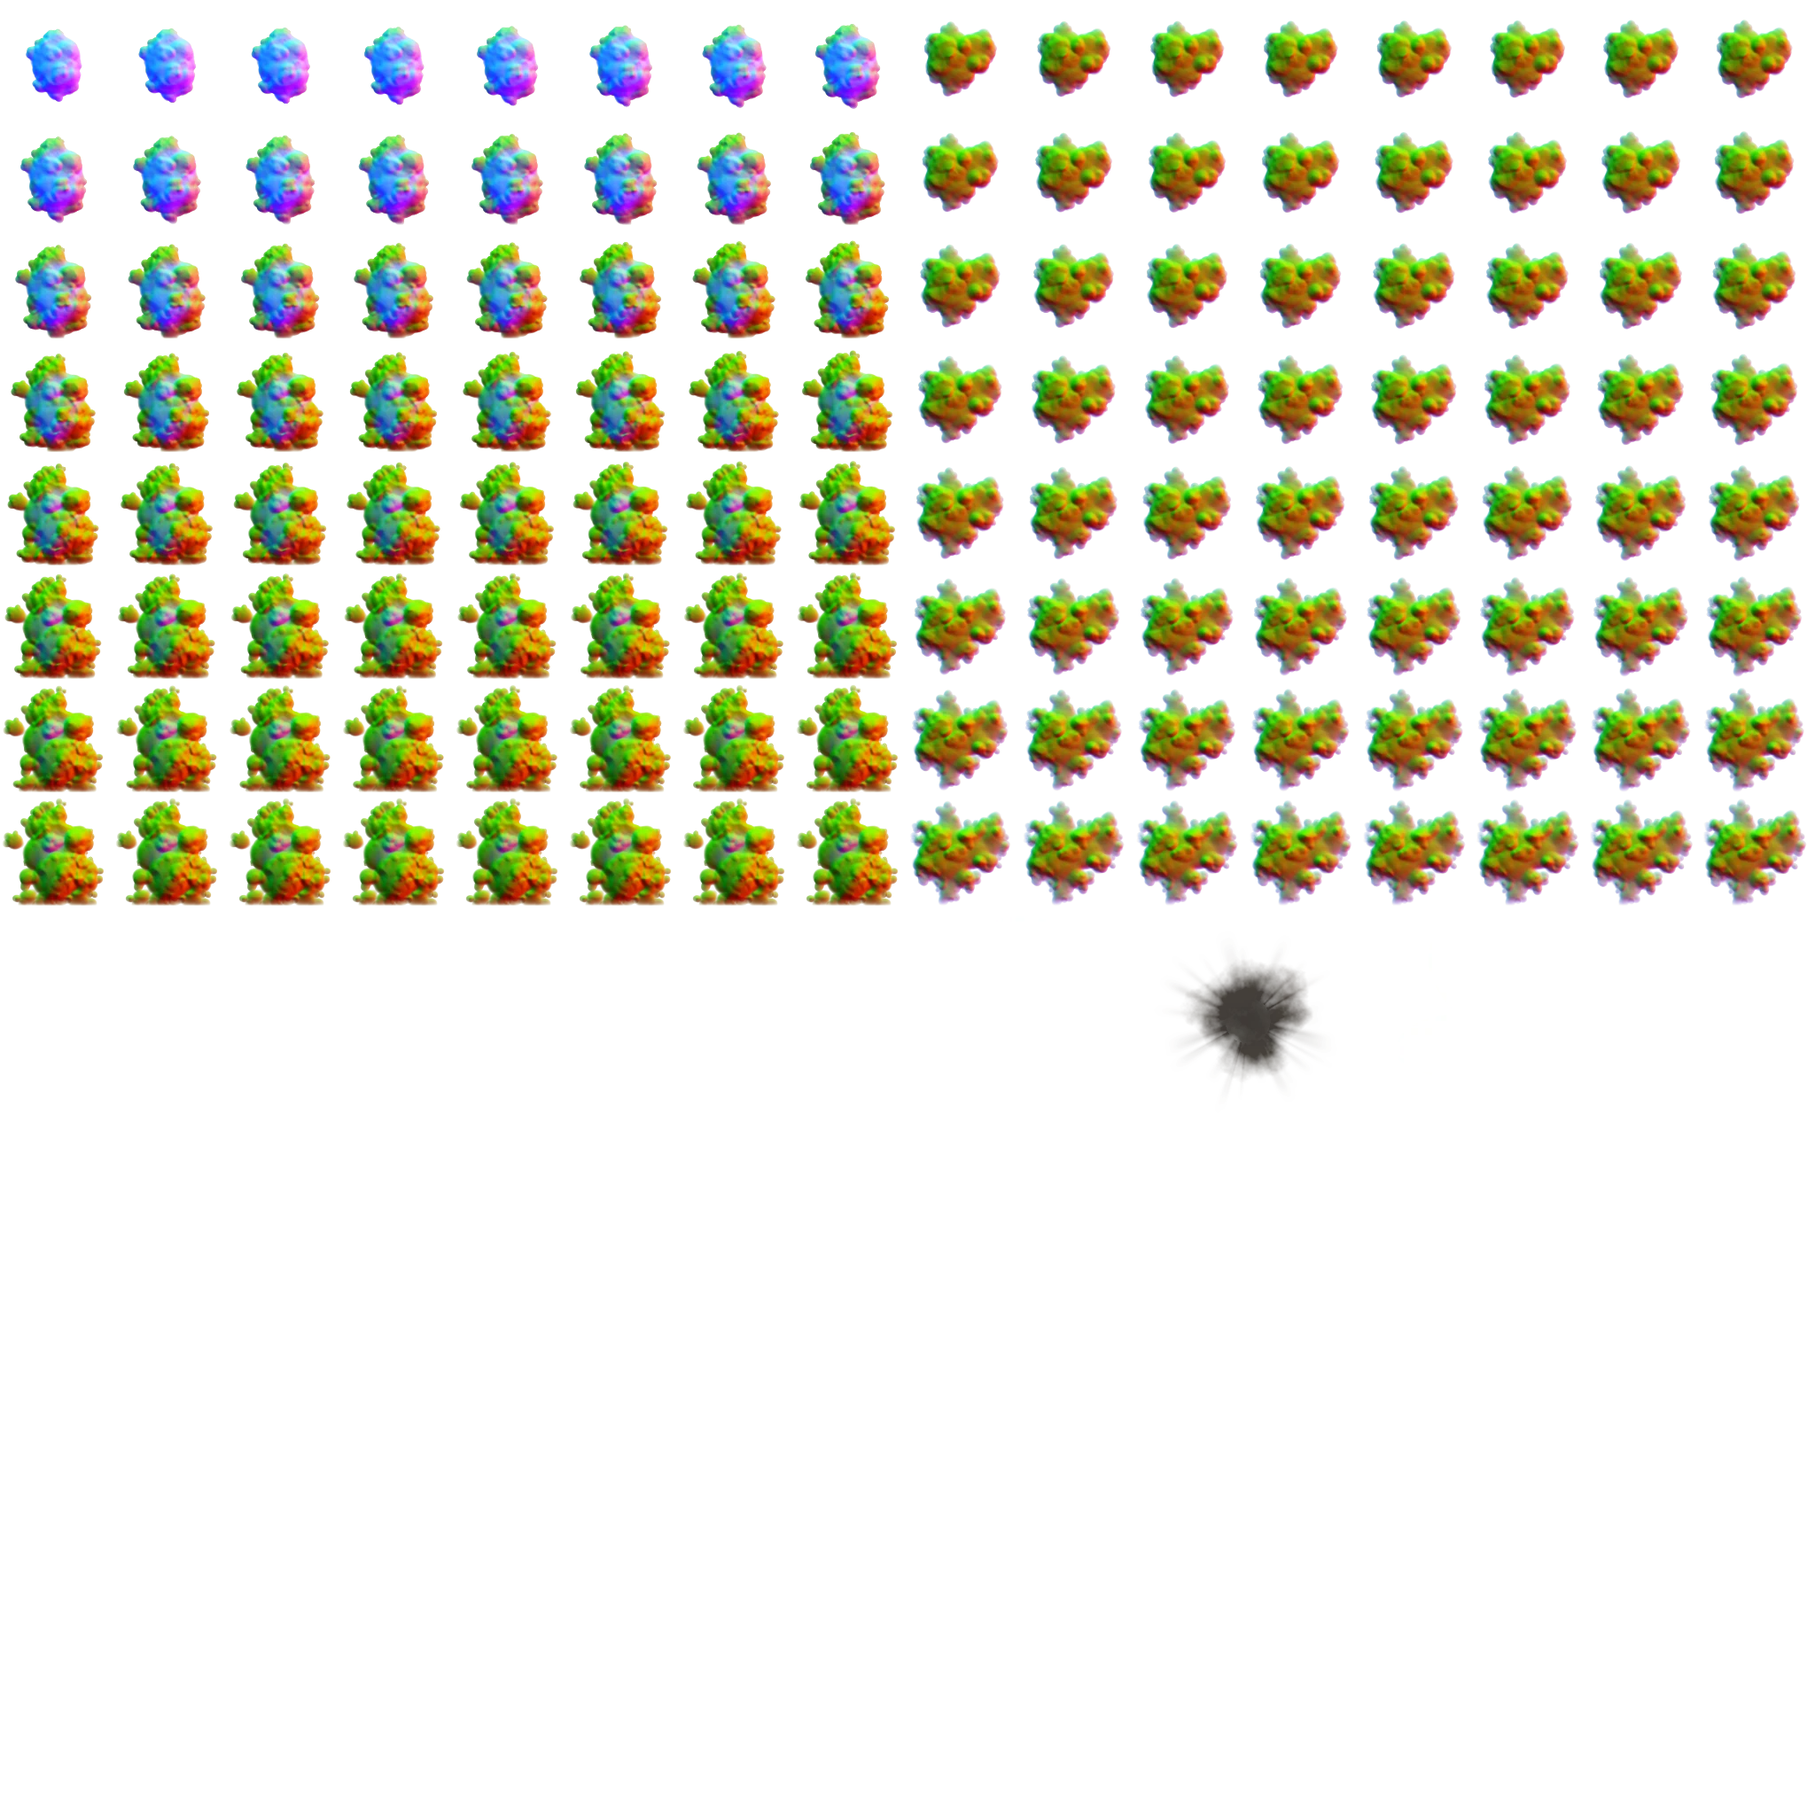
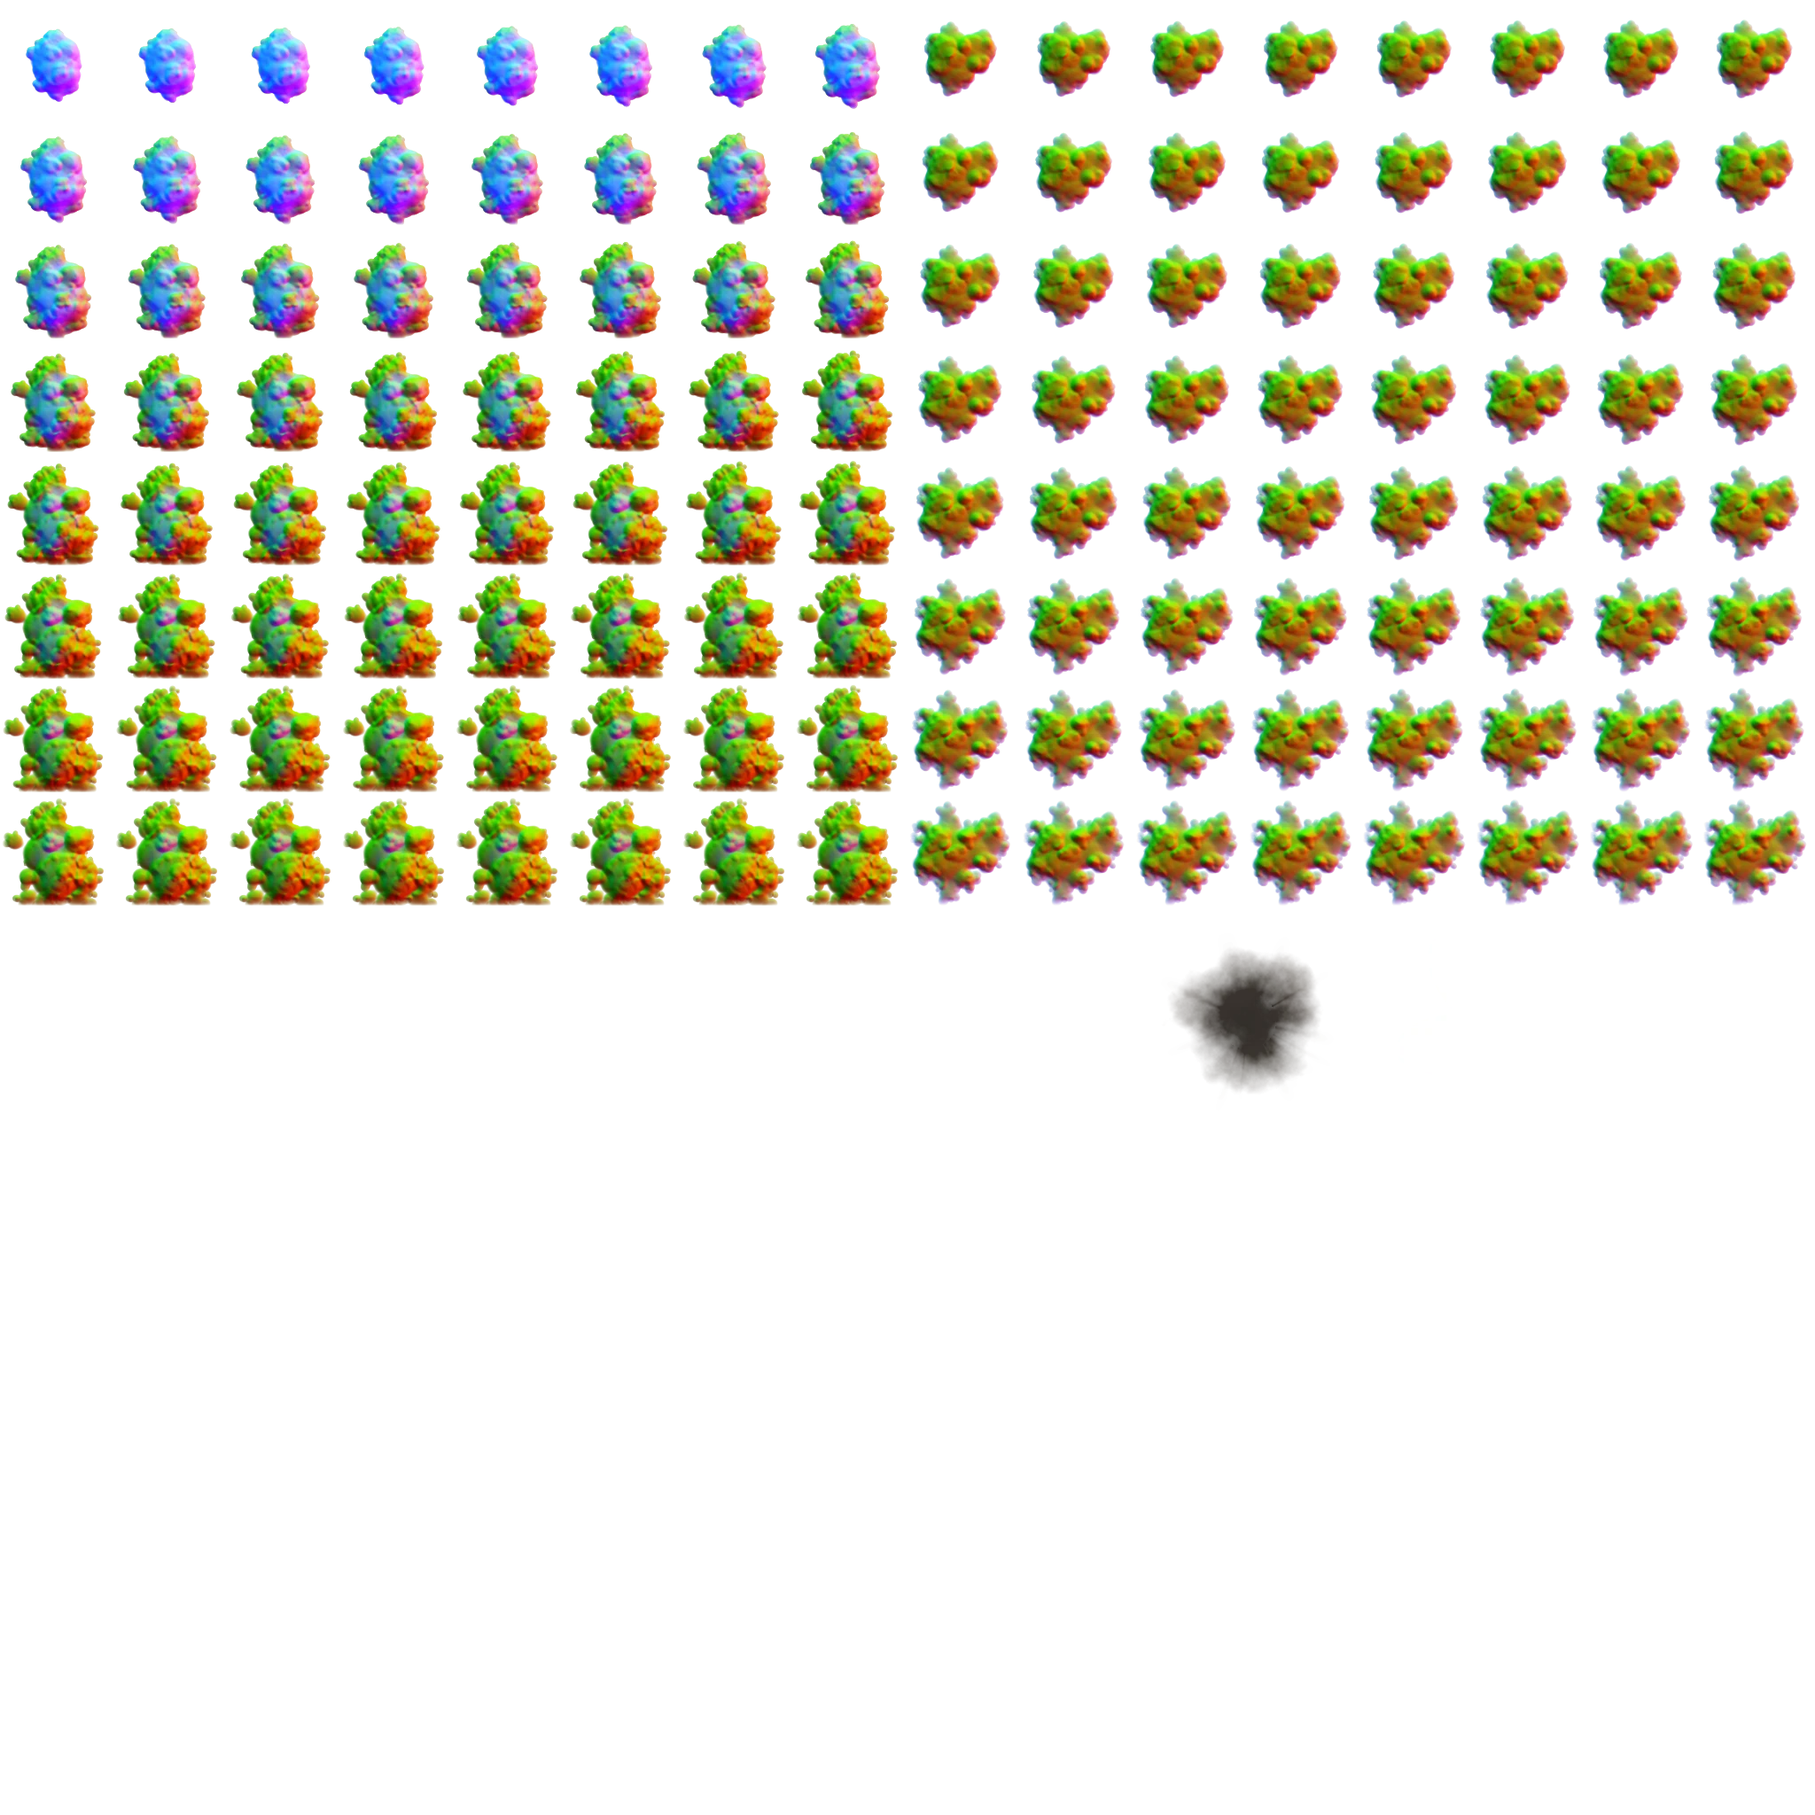
3D effects overhaul: flipbook fireballs and lit smoke, spark streaks, soft ribbons, hex shield domes, charred wrecks
- scripts/gen-fx-atlas.py renders public/assets/fx/fx_atlas.webp (698 KB): 8x8 fireball and smoke
  flipbooks ray-marched from puff clusters (RG normal, B temperature/thinness, A density) plus misc
  sprites (glow, star flare, shock ring, scorch). Loaded async; the procedural atlas stays as fallback.
- Particles: flipbook frames by age with frame blending, fireball emission by temperature with lit
  soot, smoke lit by the sun direction, analytic soft fade against the ground, sparks stretched along
  screen velocity with a 1px minimum width.
- Explosions: fewer bigger lobed fireballs, lingering lit smoke columns, long spark streaks, one crisp
  shock ring (none for chain secondaries), chunky glowing debris in the hull's team paint, titan-scale
  fire column + dust wave, smaller softer scorches, faint AoE markers.
- Tracers / beams / lightning: camera-facing gaussian ribbons with white-hot cores and bright heads;
  missile and rocket smoke trails thicker, longer-lived, drifting with the breeze; star muzzle flares.
- Shields: hex-lattice dome with water ripple, fresnel rim, ground band, shimmering cells and up to 4
  simultaneous hit ripples.
- Wrecks: each unit material gets a charred twin (same program, so paint/skins/SD detail survive):
  desaturated, soot-black on top and in noisy patches, lamps out, ember cracks while hot; instance
  colour carries char/heat/seed. Wreck levels 0-3 unchanged.

Claude-Session: https://claude.ai/code/session_01BZ7Vwb7f7ydoxG6Wm9gVDs

diff --git a/src/client/render3d/fx3d.ts b/src/client/render3d/fx3d.ts
@@ -1,6 +1,9 @@
-// Effects for the 3D battlefield: GPU-instanced billboard particles (additive fire / sparks / glows, alpha smoke / dust),
-// tumbling debris, ground shock rings, persistent scorch decals, additive beams (core + glow) with jagged lightning,
-// tracer / shell / rocket projectile pools. Everything is a handful of draw calls regardless of how much is going on.
+// Effects for the 3D battlefield: GPU-instanced billboard particles (additive glows and velocity-stretched spark streaks,
+// lobed flipbook fireballs that cool into soot, sun-lit flipbook smoke / dust with a soft fade against the ground),
+// chunky tumbling debris in the dead hull's paint, one crisp shock ring per blast, persistent soft scorch decals,
+// camera-facing soft ribbons for beams / lightning / tracers, shell / rocket projectile bodies. The flipbooks come from
+// public/assets/fx/fx_atlas.webp (scripts/gen-fx-atlas.py), loaded asynchronously; until then a procedural canvas atlas
+// keeps the older soft look. Everything is a handful of draw calls regardless of how much is going on.
 // Pure three.js: knows nothing about the sim. FieldView3D feeds it world positions (x, y = height, z).
 
 import * as THREE from 'three';
@@ -25,7 +28,7 @@ export const RAMPS = {
   smoke: [0.15, 0.14, 0.13, 0.5, 0.22, 0.2, 0.18, 0.36, 0.3, 0.28, 0.26, 0],
   smokeLight: [0.34, 0.33, 0.31, 0.32, 0.34, 0.33, 0.32, 0.2, 0.34, 0.34, 0.33, 0],
   /** flipbook fireball tint: the atlas carries the temperature, this sets the hue and brightness */
-  fireball: [2.6, 1.25, 0.4, 1, 2.2, 0.85, 0.22, 1, 1.4, 0.45, 0.12, 0],
+  fireball: [2.7, 1.15, 0.28, 1, 2.3, 0.75, 0.15, 1, 1.4, 0.38, 0.08, 0],
   /** explosion smoke: fades in while the fire burns, lingers grey-brown, lit by the sun */
   blastSmoke: [0.15, 0.14, 0.13, 0.05, 0.2, 0.185, 0.165, 0.8, 0.26, 0.24, 0.22, 0],
   heal: [0.7, 2.8, 1.1, 1, 0.3, 1.6, 0.6, 0.6, 0.1, 0.8, 0.3, 0],
@@ -1074,7 +1077,7 @@ export class Fx3D {
 
   /** shield hit: a cyan flare */
   shieldHit(x: number, y: number, z: number): void {
-    this.add.emit(x, y, z, 0, 0, 0, 0.18, 0.7, 1.2, 0, 0, 0, 0, RAMPS.shield, this.hdr);
+    this.add.emit(x, y, z, 0, 0, 0, 0.14, 0.4, 0.7, 0, 0, 0, 0, RAMPS.shield, this.hdr * 0.7);
     for (let i = 0; i < 4; i++) this.add.emit(x, y, z, R(-2.5, 2.5), R(0.4, 2.5), R(-2.5, 2.5), R(0.2, 0.4), 0.09, 0.03, 0, 1.5, -4, 3, RAMPS.shield, this.hdr);
   }
 
@@ -1097,7 +1100,7 @@ export class Fx3D {
         break;
       case 'missile': // guided missile: a white-hot exhaust point and a thin, long-lived white contrail
         if (Math.random() < 0.6) this.add.emit(x, y, z, 0, 0, 0, 0.08, 0.34 * size, 0.12, 0, 0, 0, 0, RAMPS.flash, this.hdr * 1.4);
-        this.alpha.emit(x, y, z, R(-0.05, 0.05) + WIND_X * 0.8, R(0.02, 0.12), R(-0.05, 0.05) + WIND_Z * 0.8, R(3.4, 5.0), 0.12 * size, 0.75 * size, R(-0.3, 0.3), 0.4, 0.01, pf, RAMPS.contrail);
+        this.alpha.emit(x, y, z, R(-0.05, 0.05) + WIND_X * 0.8, R(0.02, 0.12), R(-0.05, 0.05) + WIND_Z * 0.8, R(3.4, 5.0), 0.16 * size, 0.9 * size, R(-0.3, 0.3), 0.4, 0.01, pf, RAMPS.contrail);
         break;
       case 'bigMissile': // cruise / nuke: a roaring flame tongue and a heavy white plume
         this.add.emit(x, y, z, 0, 0, 0, 0.12, 0.5 * size, 0.2, 0, 0, 0, 0, RAMPS.flash, this.hdr);
@@ -1625,7 +1628,7 @@ export class Fx3D {
     for (let i = 0; i < nf; i++) {
       const a = Math.random() * 6.283, d = r * 0.38 * Math.sqrt(Math.random()), sp = r * R(0.5, 1.5);
       this.fire.emit(x + Math.cos(a) * d, cy + R(-0.15, 0.35) * r, z + Math.sin(a) * d, Math.cos(a) * sp * 0.5, R(0.3, 1.1) * r * 0.7 + 0.3, Math.sin(a) * sp * 0.5,
-        R(0.8, 1.25) * (0.85 + r * 0.08), r * R(0.7, 1.0), r * R(1.5, 2.1), R(-0.4, 0.4), 2.2, 0.35, 1 + (i & 1), fire, h * (0.6 + 0.4 * kq));
+        R(0.8, 1.25) * (0.85 + r * 0.08), r * R(0.9, 1.3), r * R(1.9, 2.6), R(-0.4, 0.4), 2.2, 0.35, 1 + (i & 1), fire, h * (0.6 + 0.4 * kq));
     }
     // smoke column: fades in as the fire dies, rises, spreads and drifts off with the breeze
     const ns = lodN(3 + Math.round(r * 2.2));
@@ -1700,7 +1703,7 @@ export class Fx3D {
       const a = Math.random() * 6.283, d = reach * Math.sqrt(Math.random()), s = size * R(0.35, 1);
       const melt = Math.random() < hot;
       const tone = melt ? R(0.45, 0.7) : R(0.05, 0.14);
-      const rgb = !melt && paint && Math.random() < 0.4 ? _scrapRgb.set(paint[0] * 0.38, paint[1] * 0.38, paint[2] * 0.38) : null;
+      const rgb = !melt && paint && Math.random() < 0.4 ? _scrapRgb.setRGB(paint[0] * 0.2 + 0.03, paint[1] * 0.2 + 0.03, paint[2] * 0.2 + 0.03) : null;
       this.scrap.add(x + R(-0.3, 0.3) * size, y + R(0.2, 0.6), z + R(-0.3, 0.3) * size, a, d, s, tone, Math.random() < 0.55, rgb);
       if (melt) this.add.emit(x, y + 0.3, z, Math.cos(a) * d * 1.4, R(3, 6), Math.sin(a) * d * 1.4, R(0.6, 1.2), 0.12 + s * 0.3, 0.03, 0, 0.6, -10, 3, RAMPS.ember, this.hdr);
     }

diff --git a/src/client/render3d/units-adapter.ts b/src/client/render3d/units-adapter.ts
@@ -18,6 +18,13 @@ import { aimTurret, buildUnit, contactShadow, recoilKick, recoilRelax, withSurfa
 import { OUTLINE_LAYER } from './outline3d.ts';
 
 export { buildTerrain, createRenderer, setupPost, setupStage, setSurfaceDetail, type Post, type Stage } from '../proto3d/index.ts';
+import { TEAM_PAINT } from '../proto3d/materials.ts';
+
+/** linear rgb of a team's primary hull paint (debris of a blown-up hull is painted with it) */
+export function teamHullRgb(team: 0 | 1): [number, number, number] {
+  const c = new THREE.Color(TEAM_PAINT[team][0]);
+  return [c.r, c.g, c.b];
+}
 
 export type Look = 'normal' | 'ghost' | 'invalid' | 'wreck' | 'cloak';
 const LOOKS: Look[] = ['normal', 'ghost', 'invalid', 'wreck', 'cloak'];
@@ -42,10 +49,8 @@ float chN(vec3 x) { vec3 i = floor(x), f = fract(x); f = f * f * (3.0 - 2.0 * f)
   return mix(mix(mix(chH(i), chH(i + vec3(1, 0, 0)), f.x), mix(chH(i + vec3(0, 1, 0)), chH(i + vec3(1, 1, 0)), f.x), f.y),
              mix(mix(chH(i + vec3(0, 0, 1)), chH(i + vec3(1, 0, 1)), f.x), mix(chH(i + vec3(0, 1, 1)), chH(i + vec3(1, 1, 1)), f.x), f.y), f.z); }`;
 const CHAR_COLOR = /* glsl */ `
-  #if defined( USE_COLOR_ALPHA )
+  #if defined( USE_COLOR_ALPHA ) || defined( USE_COLOR ) || defined( USE_INSTANCING_COLOR )
     vec3 chK = vColor.rgb;
-  #elif defined( USE_COLOR ) || defined( USE_INSTANCING_COLOR )
-    vec3 chK = vColor;
   #else
     vec3 chK = vec3(0.8, 0.0, 0.0);
   #endif
@@ -53,11 +58,11 @@ const CHAR_COLOR = /* glsl */ `
   float chNs = chN(chP) * 0.6 + chN(chP * 2.7) * 0.4;
   vec3 chWn = normalize(vChN);
   float chTop = smoothstep(-0.3, 0.9, chWn.y);
-  float chSoot = clamp(chK.r * (0.5 + 0.55 * chTop) + (chNs - 0.5) * 0.7 * chK.r, 0.0, 1.0);
+  float chSoot = clamp(chK.r * (0.62 + 0.4 * chTop) + (chNs - 0.5) * 0.9 * chK.r, 0.0, 1.0);
   float chL = dot(diffuseColor.rgb, vec3(0.299, 0.587, 0.114));
   // paint survives faintly under the soot; burnt-through patches go black, the rest heat-tinted brown-grey metal
-  vec3 chC = mix(vec3(chL), diffuseColor.rgb, 0.5 - 0.3 * chK.r) * (1.0 - 0.72 * chSoot);
-  chC = mix(chC, vec3(0.05, 0.042, 0.036), smoothstep(0.62, 0.92, chSoot));
+  vec3 chC = mix(vec3(chL), diffuseColor.rgb, 0.55 - 0.25 * chK.r) * (1.0 - 0.82 * chSoot);
+  chC = mix(chC, vec3(0.03, 0.026, 0.022), smoothstep(0.6, 0.95, chSoot));
   chC = mix(chC, chC * vec3(1.12, 0.96, 0.82), 0.5 * chK.r);
   diffuseColor.rgb = chC;`;
 const CHAR_EMBER = /* glsl */ `
@@ -82,8 +87,8 @@ function charred(src: THREE.Material): THREE.Material | null {
     sh.fragmentShader = sh.fragmentShader
       .replace('#include <common>', '#include <common>' + CHAR_FRAG_DECL)
       .replace('#include <color_fragment>', CHAR_COLOR)
-      .replace('#include <roughnessmap_fragment>', '#include <roughnessmap_fragment>\nroughnessFactor = mix(roughnessFactor, 0.95, chSoot);')
-      .replace('#include <metalnessmap_fragment>', '#include <metalnessmap_fragment>\nmetalnessFactor *= 1.0 - 0.6 * chSoot;')
+      // after the unit program's own per-row roughness / metalness (soot is matte)
+      .replace('#include <normal_fragment_begin>', '#if defined( STANDARD )\nroughnessFactor = mix(roughnessFactor, 0.95, chSoot);\nmetalnessFactor *= 1.0 - 0.6 * chSoot;\n#endif\n#include <normal_fragment_begin>')
       .replace('#include <lights_fragment_begin>', CHAR_EMBER);
   };
   m.customProgramCacheKey = () => key + '|char1';

diff --git a/src/client/render3d/ui3d.ts b/src/client/render3d/ui3d.ts
@@ -117,24 +117,24 @@ const shieldFS = /* glsl */ `
       if (hh.w >= 1.0) continue;
       float ang = acos(clamp(dot(p, hh.xyz), -1.0, 1.0));
       float k = 1.0 - hh.w;
-      float d = ang - hh.w * 2.3;
-      ring += (exp(-d * d * 60.0) + 0.45 * exp(-(d + 0.28) * (d + 0.28) * 90.0)) * k;
-      flash += exp(-ang * ang * 10.0) * k * k;
+      float d = ang - (0.08 + hh.w * 2.6);
+      ring += (exp(-d * d * 140.0) + 0.5 * exp(-(d + 0.3) * (d + 0.3) * 200.0)) * k;
+      flash += exp(-ang * ang * 40.0) * k * k;
       warp += sin(d * 26.0) * exp(-d * d * 12.0) * k;
     }
-    vec2 uv = vP.xz * 7.0 + vec2(sin(vP.z * 9.0 + uTime * 1.3), cos(vP.x * 8.0 - uTime * 1.1)) * 0.06 + p.xz * warp * 0.35;
+    vec2 uv = vP.xz * 3.6 + vec2(sin(vP.z * 9.0 + uTime * 1.3), cos(vP.x * 8.0 - uTime * 1.1)) * 0.06 + p.xz * warp * 0.35;
     vec4 hx = hexCell(uv);
     float hd = max(dot(abs(hx.xy), vec2(0.8660254, 0.5)), abs(hx.y));
-    float edge = smoothstep(0.4, 0.49, hd);
+    float edge = smoothstep(0.36, 0.48, hd);
     float rid = h21(hx.zw + uSeed);
     float shimmer = smoothstep(0.82, 1.0, sin(uTime * (1.2 + rid * 2.0) + rid * 40.0)) * 0.6;
     float fres = 1.0 - abs(dot(normalize(vN), normalize(vV)));
     float rim = pow(fres, 2.6);
     float ground = exp(-pow((vP.y + 0.42) * 10.0, 2.0));
     float face = gl_FrontFacing ? 1.0 : 0.35;
-    float a = uBase * (0.25 + 0.9 * rim + edge * (0.55 + 1.4 * rim) + shimmer * (1.0 - edge) * 0.25)
+    float a = uBase * (0.2 + 0.9 * rim + edge * (0.9 + 1.6 * rim) + shimmer * (1.0 - edge) * 0.3)
             + rim * 0.06 + ground * uBase * 2.2
-            + ring * (0.35 + edge * 1.6) + flash * 0.7;
+            + ring * (0.25 + edge * 1.6) + flash * 0.4;
     vec3 col = uCol * (1.0 + ring * 1.4 + flash) + vec3(0.6, 0.8, 1.0) * (ring * edge + flash * 0.6);
     gl_FragColor = vec4(col * a * face, 1.0);
   }`;
@@ -154,7 +154,7 @@ export class ShieldPool {
       const mat = new THREE.ShaderMaterial({
         vertexShader: shieldVS, fragmentShader: shieldFS, transparent: true, depthWrite: false, blending: THREE.AdditiveBlending, side: THREE.DoubleSide, toneMapped: false,
         uniforms: {
-          uBase: { value: 0.1 }, uTime: { value: 0 }, uCol: { value: new THREE.Color(0.32, 0.7, 1.25) }, uSeed: { value: Math.random() * 50 },
+          uBase: { value: 0.1 }, uTime: { value: 0 }, uCol: { value: new THREE.Color(0.3, 0.72, 1.7) }, uSeed: { value: Math.random() * 50 },
           uHits: { value: [0, 1, 2, 3].map(() => new THREE.Vector4(0, 1, 0, 1)) },
         },
       });

diff --git a/src/client/render3d/FieldView3D.ts b/src/client/render3d/FieldView3D.ts
@@ -22,7 +22,7 @@ import { TEAM_PAL } from '../render/palette.ts';
 import { flyHeight } from '../render/tilt.ts';
 import type { BattleView } from '../render/view.ts';
 import { buildTerrain, createRenderer, setSurfaceDetail, setupPost, setupStage, type Post, type Stage } from './units-adapter.ts';
-import { UnitLayer, templateKey, type Look, type Rig } from './units-adapter.ts';
+import { UnitLayer, teamHullRgb, templateKey, type Look, type Rig } from './units-adapter.ts';
 import { Fx3D, RAMPS, type MuzzleKind, type Ramp, type TrailKind } from './fx3d.ts';
 import { Overlay, ShieldPool, rgb } from './ui3d.ts';
 import { UnitOutline } from './outline3d.ts';
@@ -680,7 +680,7 @@ export class FieldView3D implements BattleView {
   /** linear rgb of a side's team body paint (blown-up hull debris) */
   private paintOf(side: Side): [number, number, number] {
     const t = this.teamOf(side);
-    if (!this.paints[t]) { const c = new THREE.Color(TEAM_PAL[t].body); this.paints[t] = [c.r, c.g, c.b]; }
+    if (!this.paints[t]) this.paints[t] = teamHullRgb(t);
     return this.paints[t];
   }
   private clearBattle(): void {
@@ -1017,7 +1017,7 @@ export class FieldView3D implements BattleView {
     const hit = since < 0.55 ? 1 - since / 0.55 : 0;
     const frac = u.maxShield > 0 ? u.shield / u.maxShield : 0.5;
     const un = b.mat.uniforms;
-    un.uBase.value = (0.045 + 0.06 * frac) * clamp(0.6 + 0.4 * this.flashScale, 0, 1) + hit * 0.05;
+    un.uBase.value = (0.08 + 0.08 * frac) * clamp(0.6 + 0.4 * this.flashScale, 0, 1) + hit * 0.05;
     un.uTime.value = this.time;
     // the last 4 hits ripple at once; directions relative to the bubble's centre in its unit-sphere space
     const hs = un.uHits.value as THREE.Vector4[], cy = h + Hh * 0.42;

diff --git a/scripts/gen-fx-atlas.py b/scripts/gen-fx-atlas.py
@@ -199,7 +199,7 @@ def fire_frame(i):
     dens = np.clip(d * 5, 0, 1) * window(P)
     sig = dens * (16 - 6 * t)
     # hot inside the big lobes, sooty in the creases between puffs; cools over time from the outside in
-    temp = core * 1.5 + (n2 - 0.5) * 0.9 + 0.35 + 0.6 * (1 - t) ** 3 - t * 1.3
+    temp = core * 1.3 + field * 0.35 + (n2 - 0.5) * 0.9 + 0.25 + 0.6 * (1 - t) ** 3 - t * 1.3
     temp = np.clip(temp, 0, 1)
     a, tv, tau = composite(sig, temp, DZ)
     nm = normals(tau, 1.0 / 32)
